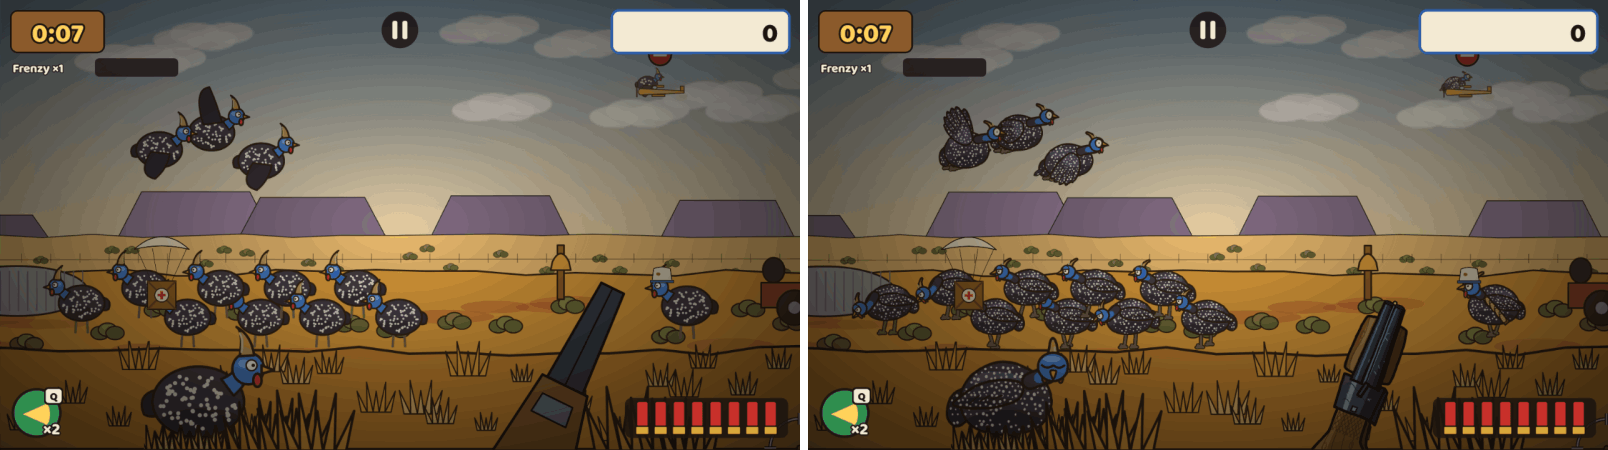
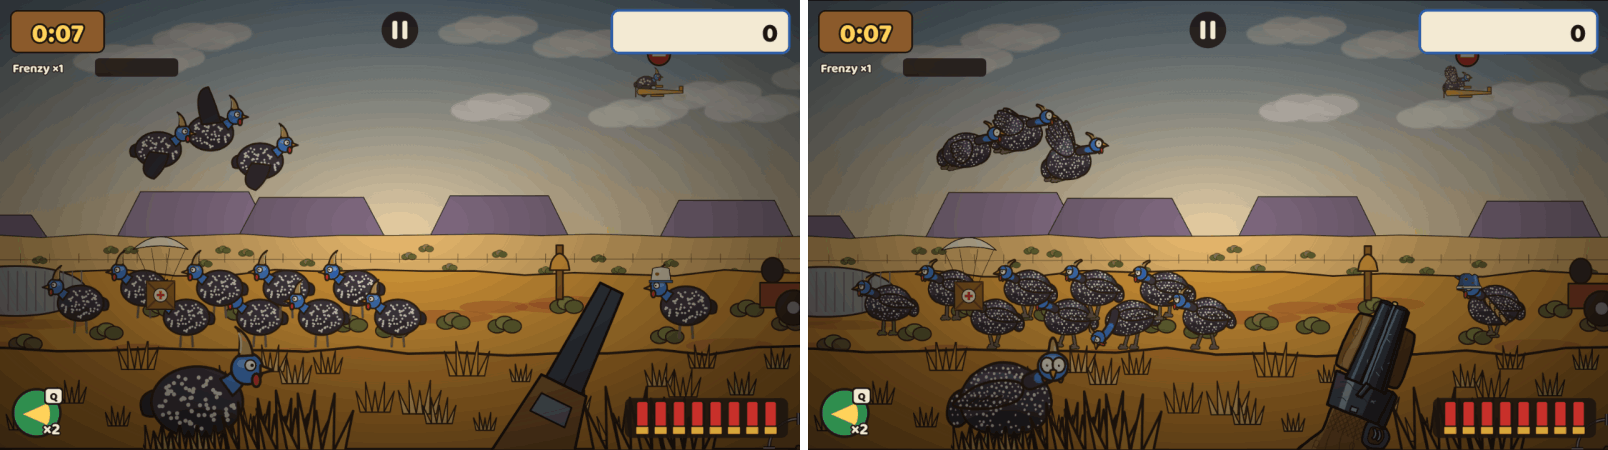
docs(art): Generaal in-game with his enamel pot (desktop); split the preview tests

diff --git a/tests/e2e/art-preview.spec.ts b/tests/e2e/art-preview.spec.ts
@@ -119,10 +119,14 @@ test('flock foraging, then flushing', async ({ page }, info) => {
   compose('flock-flush', info);
 });
 
-test('the Generaal (and the hitbox overlay)', async ({ page }, info) => {
+test('the Generaal', async ({ page }, info) => {
   test.setTimeout(400_000);
   await held(page, info, 'generaal', 'seed=11&huntSeconds=20', 800);
-  await held(page, info, 'debug-hitboxes', 'seed=11&huntSeconds=20&debug=1', 800);
+});
+
+test('the debug hitbox overlay (?debug=1)', async ({ page }, info) => {
+  test.setTimeout(400_000);
+  await held(page, info, 'debug-hitboxes', 'seed=42&huntSeconds=20&debug=1', 70);
 });
 
 const GUNS: readonly [string, number | null][] = [
